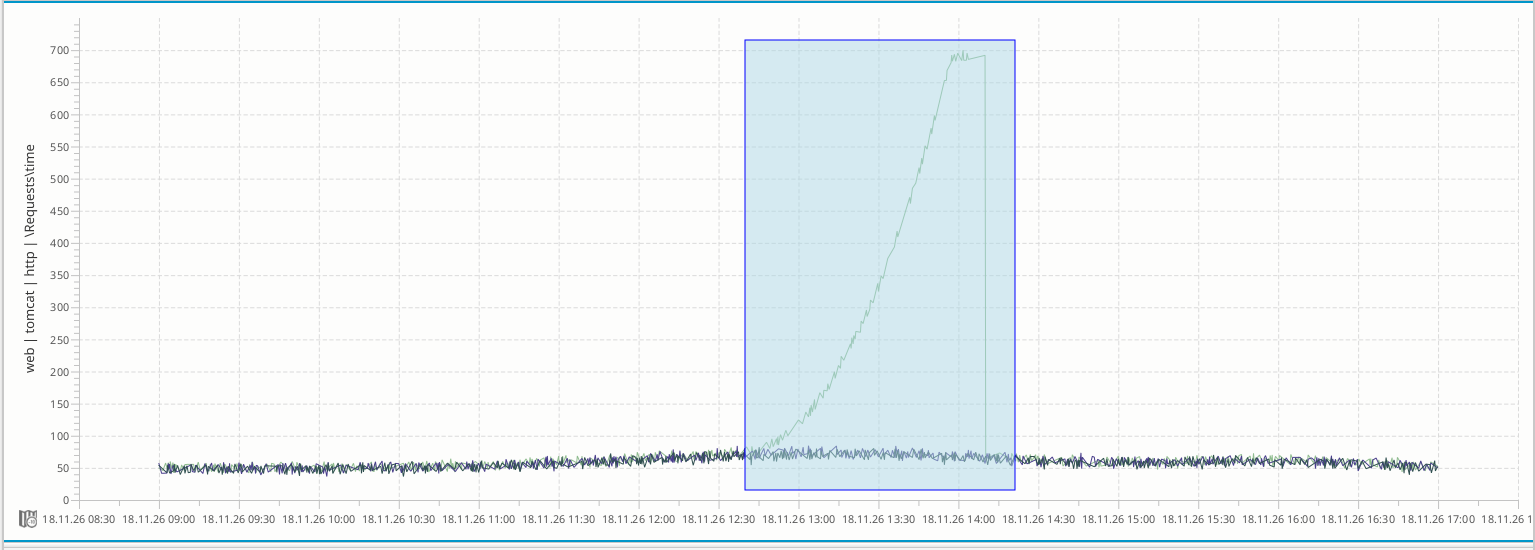
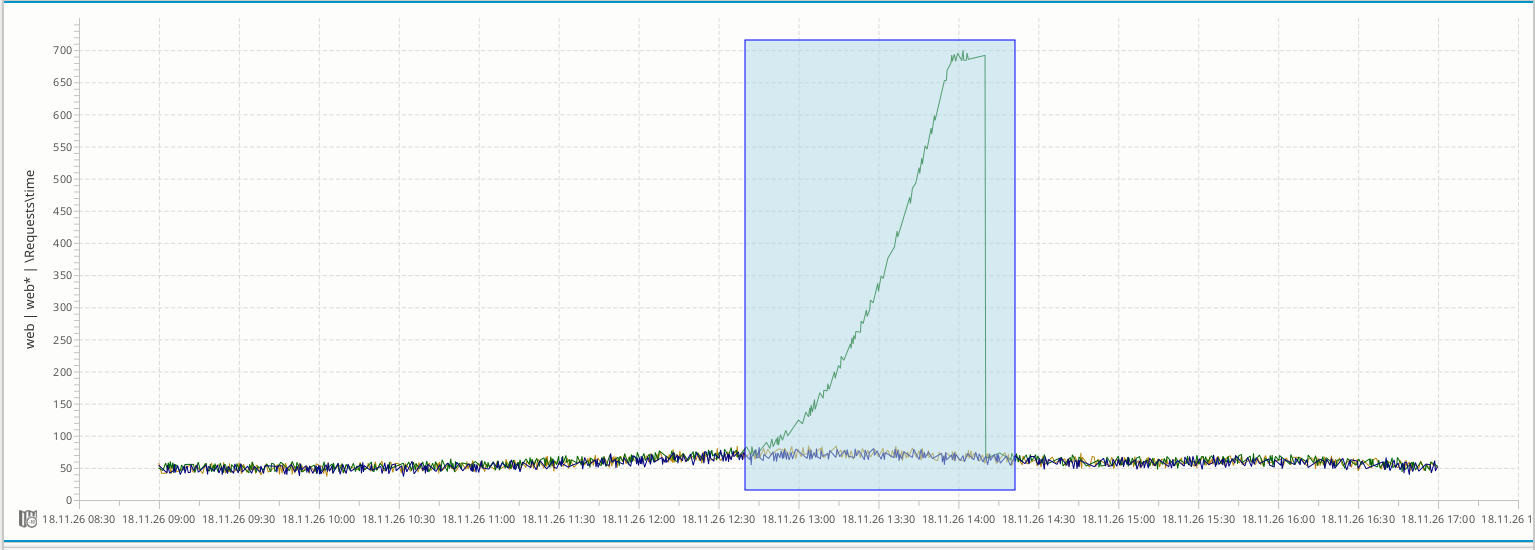
Handbook: bring to front, process group, and an analysis by the AI Assistant
The page about the window follows the application: the field Process Group,
the arrow keys of the explorer, the tooltips of the modes and "Bring to
Front". All pictures are taken again, as the header has a field more.

A new section shows the AI Assistant analysing the fault of the sample
project: it reads heap, garbage collection, threads and the rate of
requests by itself and concludes a memory leak.

diff --git a/docs/handbook/workbench-ui.md b/docs/handbook/workbench-ui.md
@@ -5,7 +5,8 @@
 
 This page goes through the window of the Workbench part by part: the explorer, the filter
 header of a chart with its wildcards, the chart itself, and the legend, where charts are pushed
-to the background, removed again, coloured and drawn as lines, areas, sums or points.
+to the background and brought to the front again, coloured and drawn as lines, areas, sums or
+points. At the end the AI Assistant analyses the fault the pictures show.
 
 The pictures show a sample project with generated values. *Webshop* has three web servers,
 `web01` to `web03`, and a database server, measured for eight hours. Around midday `web03` goes
@@ -24,7 +25,7 @@ wrong: its response times rise, it serves fewer requests, and at 14:10 it is res
 | 5 | [Chart](#the-chart) | The series over the time. Zooming, moving and reading values is done with the mouse. |
 | 6 | [Chart Behavior and Chart Export](#chart-behavior-and-export) | Settings of the chart, and its export as Excel file or picture. |
 | 7 | [Legend](#the-legend) | The charts of the panel and their series: visibility, colour, type, and the charts in the background. |
-| 8 | AI Assistant | See [AI Assistant](workbench.md#ai-assistant). |
+| 8 | [AI Assistant](#the-ai-assistant) | Answers questions about the data of the chart, by querying it. |
 | 9 | Status bar | What the last query did - *Processed 3 series with 5.760 values of 109.440 total in 17ms* - and the progress of what runs in the background. |
 
 Parts 4 to 7 together are one chart panel. It has a tab with the name of its project, and
@@ -76,7 +77,8 @@ A metric is opened in two ways:
 
 | Action | Effect |
 | --- | --- |
-| Double-click, or **Show and replace existing metrics** in the menu of the metric | The chart shows this metric and nothing else. |
+| Double-click, the Enter key, or **Show and replace existing metrics** in the menu of the metric | The chart shows this metric and nothing else. |
+| Moving to the metric with the arrow keys | The same. Going down a list of metrics with the Down key shows one after the other. |
 | **Show and keep existing metrics** in the menu of the metric | What the chart showed moves to the background, and this metric is drawn in front of it. See [Charts in the background](#charts-in-the-background). |
 
 The other nodes have menus of their own, opened with the right mouse button:
@@ -104,14 +106,15 @@ chart again at once; a typed value is confirmed with the Enter key.
 | Measurement | one measurement, or `*` for all |
 | Clusters/Devices | the host group |
 | Host/Device | the host |
+| Process Group | the process group: the level between the host and the process in the explorer, `app` and `system` in the pictures |
 | Process | the process |
 | Metric Type | the metric group |
 | Metric | the metric |
 | Exclude | metrics to leave out of what **Metric** matches |
 
 In a cloud-native project the fields are *Namespace*, *Pod* and *Container* instead of
-*Clusters/Devices* and *Host/Device*, and **Enable add. filters** adds *Measurement* and
-*Service*. There is no field for the process group.
+*Clusters/Devices* and *Host/Device*, and **Enable add. filters** adds *Measurement*, *Service*
+and *Process Group*.
 
 ### Wildcards
 
@@ -147,6 +150,11 @@ among them because it is excluded. Typing narrows the list and completes the nam
 | Smoothing | A value computed for every interval of time instead of the single values: **Average**, **Min**, **Max**, **Sum**, **Median**, **Value Count** (how many values there are) or **Value Difference** (the change against the interval before). |
 | Granularity | The interval of the smoothing: seconds to half years, or **Auto**, which chooses one that fits the time shown. |
 | Combine metrics | What becomes of several series. **Concatenate**, the standard, joins the parts a series has in several measurements to one line. **Sum** and **Average** make one series of all, per second, minute, hour, day or month. **Inactive** leaves every part as it is. |
+
+The lists **Smoothing** and **Combine metrics** say what their modes do. Every entry of the open
+list has a tooltip, and so has the list itself for the mode that is chosen.
+
+![The tooltip of the mode Concatenate in the list Combine metrics](../images/ui-combine-tooltip.png)
 
 Reducing the points does not lose anything: zooming in loads the interval again, and the 500
 points are then spent on it alone.
@@ -200,6 +208,7 @@ bar for the chart, and a line for each of its series.
 | List with **LINE** | The [type](#chart-types) of the chart. |
 | **Push to Background** | Moves the chart to the [background](#charts-in-the-background). |
 | **Calculate % Deviation** | [Compares](#percentage-deviation) the charts in the background with this one. |
+| **Bring to Front** | Makes a chart in the background the one in front again; what is in front goes to the [background](#charts-in-the-background) in exchange. |
 | **Remove** | Takes a chart in the background out of the panel. |
 
 | In the line of a series | Effect |
@@ -268,8 +277,17 @@ A chart in the background
 - has its own type, colours and check boxes in the legend;
 - follows new values as the chart in front does, if its project is being collected.
 
-**Remove** takes a chart in the background out again. That is the only way back: a chart in the
-background cannot be brought to the front. To change its query, remove it and open it again.
+**Bring to Front** exchanges a chart in the background with the one in front. The chart comes
+back with its series, their colours and its type, and the filter header shows its query again,
+which can then be changed. What was in front is in the background now, and can be brought back
+the same way.
+
+![After Bring to Front: the response times are in front again and the rate of requests is behind them](../images/ui-bring-to-front.png)
+
+This is the picture before with the two charts exchanged: the header shows `\Requests\time`
+of all hosts again, and the axis of the response times is the one on the left.
+
+**Remove** takes a chart in the background out of the panel.
 
 ### Percentage deviation
 
@@ -289,6 +307,8 @@ The picture came about like this:
 The result is two charts in the background. *[100% Baseline]* is the measure as an area, and
 *[Relative Values]* has the other series in percent of it: `web02` constantly a little below
 `web01`, `web03` above it until it falls to 55 percent. The place in front is empty afterwards.
+The two charts are calculated, not queried; **Bring to Front** is not available for them,
+because the header would have no query to show.
 
 The series are compared interval by interval, so they should have their values at the same
 times. Smoothing all of them with the same granularity, as here with **Average**, does that.
@@ -306,5 +326,36 @@ and of all charts in the background into one chart in the background, with one a
 | Export Displayed Data as PNG | Writes the chart as a picture, in a size that can be chosen. |
 
 See [Export](workbench.md#export).
+
+## The AI Assistant
+
+The pane on the right takes questions about the data in plain words. The assistant does not
+see the picture of the chart: it asks which project, filters and time zone the chart panel in
+use has, and then queries the series it needs itself, also others than those shown.
+
+![The assistant explains why web03 got slow](../images/ui-ai-analysis.png)
+
+In the picture the chart shows the response times of the three web servers, and the question
+was:
+
+> web03 gets slow around 13:00. Compare it with web01 and web02 and look at heap and garbage
+> collection of its Tomcat. What is the likely cause? Use only the measured data.
+
+To answer it, the assistant read the heap, the garbage collection times, the threads and the
+rate of requests of all three servers, none of which is in the chart, and compared them. Its
+conclusion is a memory leak in the Tomcat of `web03`: the heap that remains after a garbage
+collection rises while the load does not, the collections take longer, and the requests with
+them. That is what the sample data was made to show. It also says what the data cannot tell:
+which objects fill the heap.
+
+Three things to know:
+
+- The times the assistant names are those of the chart: it works in the time zone chosen at the
+  lower left corner of the chart.
+- The answer is a hypothesis with numbers to check, not a measurement. The chart panel beside
+  it is where they are checked.
+- The names of the metrics and the values the assistant queries are sent to the service that
+  runs the model. What it needs, and what to mind, is described in
+  [AI Assistant](workbench.md#ai-assistant).
 
 [Next: Workbench importers →](workbench-importers.md)

diff --git a/docs/handbook/workbench.md b/docs/handbook/workbench.md
@@ -120,7 +120,7 @@ The explorer can represent physical hierarchy (host groups, hosts, process group
 measurements and metrics) and logical/cloud hierarchy (namespaces, services, pods and containers).
 The level of process groups is shown where series have one: what a Collector writes, as CSV
 files or into Solr or Elasticsearch, carries the process group of its configuration, and an analysis started with **New Analysis** uses the name
-of the host group for it. The filter header of a chart has no field for the process group.
+of the host group for it. The filter header of a chart has the field **Process Group** for it.
 Expand nodes to narrow the context or use the chart filter header. Filter controls accept multiple
 values and wildcards where the backing query supports them. A warning item reports incomplete or
 inconsistent hierarchy data rather than silently hiding it.
@@ -149,7 +149,8 @@ Each chart supports:
 How this is done with the mouse and in the legend is shown in
 [The chart](workbench-ui.md#the-chart) and [The legend](workbench-ui.md#the-legend): zooming,
 reading values, colours, the chart types LINE, AREA, SUM and POINT,
-[charts in the background](workbench-ui.md#charts-in-the-background) and the
+[charts in the background](workbench-ui.md#charts-in-the-background), which can be brought to
+the front again, and the
 [percentage deviation](workbench-ui.md#percentage-deviation).
 
 ### Smoothing and aggregation
@@ -180,7 +181,8 @@ query as a bookmark when reproducibility matters.
 
 The dockable AI Assistant uses an OpenAI-compatible chat endpoint. Its tool set can:
 
-- read the current chart context;
+- read the current chart context, with the time zone of the chart: the times of an answer are
+  those of the time axis;
 - list metric dimensions;
 - query time series;
 - propose and run an SSH command only through an approval handler.
@@ -190,6 +192,8 @@ The model is not configurable in the application yet. The Workbench talks to
 API key from the environment variable `OPENROUTER_API_KEY`, which must be set before the
 Workbench starts. Without it the assistant cannot reach a model. Another endpoint (OpenAI,
 Ollama or another OpenAI-compatible service) needs a change in `AiChatModule` and a new build.
+
+An analysis is shown, with a picture, in [The AI Assistant](workbench-ui.md#the-ai-assistant).
 
 Chart context, metric names and queried values are sent to that service. Review what data
 leaves the workstation and never approve an SSH command you would not run yourself. AI output is

diff --git a/docs/handbook/reference.md b/docs/handbook/reference.md
@@ -89,8 +89,8 @@ qualified interface key in `collector.properties`.
 | Help | About Software-EKG |
 | Project selector/bar | create, select, edit; repository/collection/view flavour; importer shortcuts |
 | Explorer | traverse physical/cloud dimensions; open/query series and bookmarks; context actions. See [The explorer](workbench-ui.md#the-explorer) |
-| Chart header | dimension/time filters with the patterns `*`, `?`, `\|(a\|b)`, `-(a)`; smoothing; combine; refresh. See [The filter header](workbench-ui.md#the-filter-header) |
-| Chart/legend | zoom; visibility; colours; types LINE, AREA, SUM, POINT; foreground/background; y-axis alignment; absolute/relative combination; remove. See [The chart](workbench-ui.md#the-chart) and [The legend](workbench-ui.md#the-legend) |
+| Chart header | dimension filters including the process group, time filters, with the patterns `*`, `?`, `\|(a\|b)`, `-(a)`; smoothing; combine; refresh. See [The filter header](workbench-ui.md#the-filter-header) |
+| Chart/legend | zoom; visibility; colours; types LINE, AREA, SUM, POINT; push to background and bring to front; y-axis alignment; absolute/relative combination; remove. See [The chart](workbench-ui.md#the-chart) and [The legend](workbench-ui.md#the-legend) |
 | Export | bitmap screenshot; Excel data |
 | Status bar | background progress and cancellation |
 
